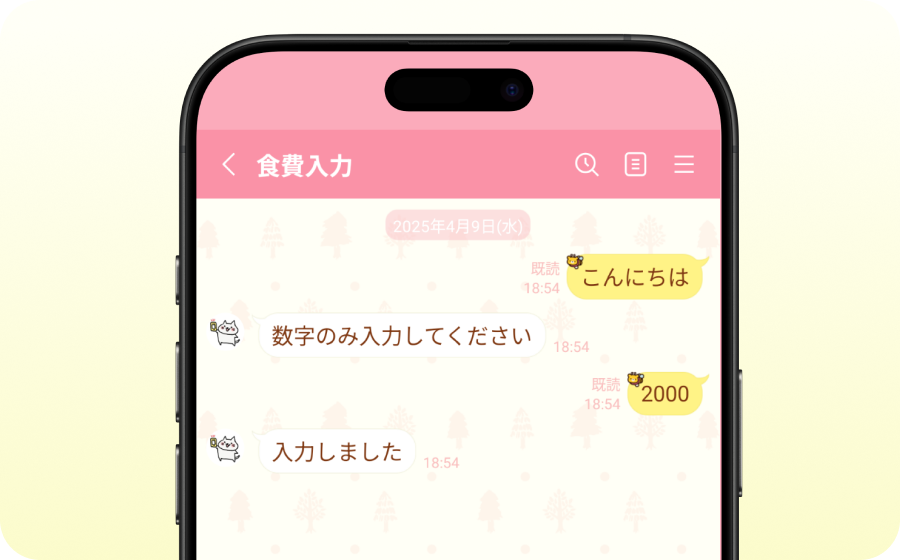
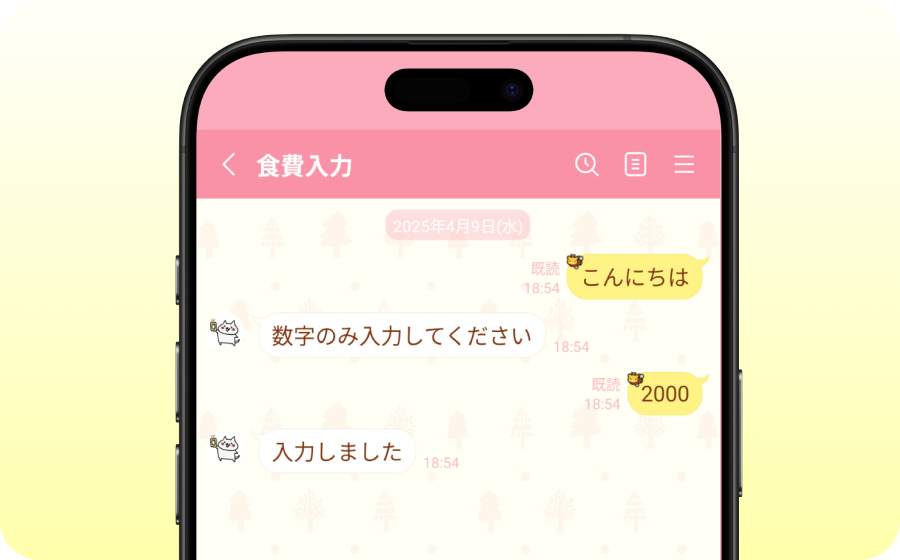
style: WORKカードにリンク付き画像とホバー抑制、レイアウト幅を統一
WORKカードの画像をGitHubリンクでラップし、ASKAI/SKILL/WORKセクションの
max-widthを880pxに統一。画像も圧縮。

Changed region(s): [[0.0, 0.7589, 0.2178, 1.0], [0.8089, 0.7589, 1.0, 1.0]]

diff --git a/src/components/work/styles.module.scss b/src/components/work/styles.module.scss
@@ -6,9 +6,10 @@
 .list {
 	display: flex;
 	flex-wrap: wrap;
-	padding: 0 60px;
 	gap: 60px;
-	margin-top: 60px;
+	max-width: 880px;
+	margin: 60px auto 0;
+	padding: 0 60px;
 
 	li {
 		width: calc(50% - 30px);
@@ -26,10 +27,13 @@
 	height: auto;
 	border-radius: 13px;
 	overflow: hidden;
+
+	&:hover {
+		opacity: .999;
+	}
 }
 
 .name {
-	margin-top: 15px;
 	font-size: 16px;
 	font-weight: bold;
 
@@ -37,6 +41,7 @@
 		display: inline-flex;
 		align-items: center;
 		gap: 3px;
+		padding: 15px 15px 10px 0;
 		color: inherit;
 
 		svg {
@@ -44,10 +49,6 @@
 			top: 1px;
 		}
 	}
-}
-
-.description {
-	margin-top: 10px;
 }
 
 .skill {

diff --git a/src/components/work/Work.tsx b/src/components/work/Work.tsx
@@ -9,11 +9,18 @@ export default function Work() {
 			<ul className={styles.list}>
 				{WORKS.map((work, index: number) => (
 					<li key={index} className={styles.item}>
-						<Image
-							className={styles.image}
-							src={work.image}
-							alt={work.name}
-						/>
+						<a
+							className="noHover"
+							href={work.githubUrl}
+							target="_blank"
+							rel="noopener noreferrer"
+						>
+							<Image
+								className={styles.image}
+								src={work.image}
+								alt={work.name}
+							/>
+						</a>
 						<h3 className={styles.name}>
 							<a
 								href={work.githubUrl}

diff --git a/src/components/skill/styles.module.scss b/src/components/skill/styles.module.scss
@@ -17,8 +17,10 @@
 	display: flex;
 	flex-wrap: wrap;
 	justify-content: center;
-	padding: 0 60px;
 	gap: 60px;
+	max-width: 880px;
+	margin: auto;
+	padding: 0 60px;
 }
 
 .item {

diff --git a/src/components/askAI/styles.module.scss b/src/components/askAI/styles.module.scss
@@ -33,9 +33,9 @@
 
 .inner {
 	position: relative;
-	max-width: 880px;
 	height: 80vh;
 	max-height: 560px;
+	max-width: 880px;
 	margin: auto;
 	padding: 0 40px;
 }

diff --git a/src/app/globals.scss b/src/app/globals.scss
@@ -42,4 +42,10 @@ a {
 	&:hover {
 		opacity: .5;
 	}
+	
+	&.noHover {
+		&:hover {
+			opacity: 1;
+		}
+	}
 }
